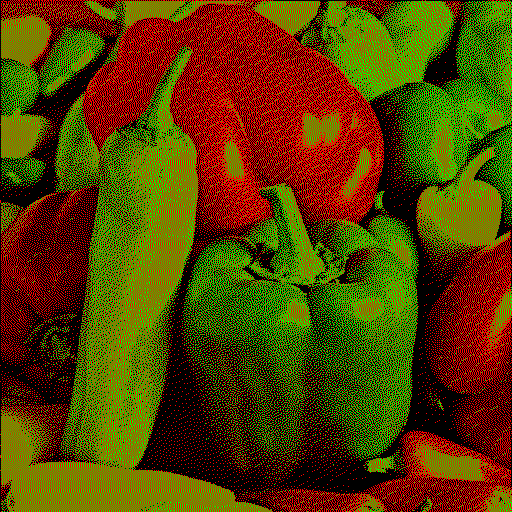
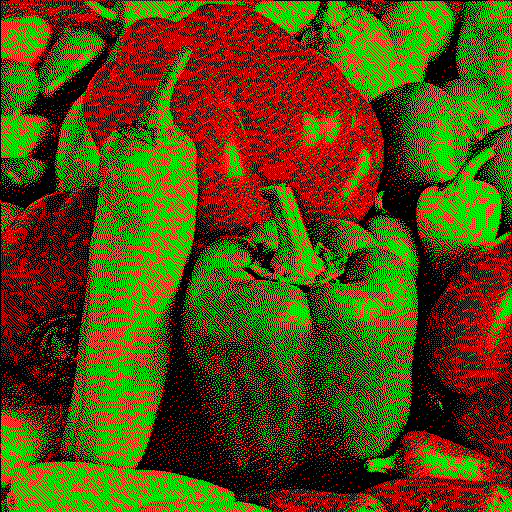
Weight each channel by human luminance when comparing to palette (#12)

diff --git a/dither.go b/dither.go
@@ -132,8 +132,23 @@ func (d *Ditherer) closestColor(r, g, b uint16) int {
 	// Go through each color and find the closest one
 	color, best := 0, uint32(math.MaxUint32)
 	for i, c := range d.linearPalette {
+
 		// Euclidean distance, but the square root part is removed
-		dist := sqDiff(r, c[0]) + sqDiff(g, c[1]) + sqDiff(b, c[2])
+		// Weight by luminance value to approximate radiant power / luminance
+		// as humans perceive it.
+		//
+		// These values were taken from Wikipedia:
+		// https://en.wikipedia.org/wiki/Grayscale#Colorimetric_(perceptual_luminance-preserving)_conversion_to_grayscale
+		// 0.2126, 0.7152, 0.0722
+		// The are changed to fractions here to keep everything in integer math:
+		//     1063/5000, 447/625, 361/5000
+		// Unfortunately this requires promoting them to uint64 to prevent overflow
+
+		dist := uint32(
+			1063*uint64(sqDiff(r, c[0]))/5000 +
+				447*uint64(sqDiff(g, c[1]))/625 +
+				361*uint64(sqDiff(b, c[2]))/5000,
+		)
 
 		if dist < best {
 			if dist == 0 {

diff --git a/dither_test.go b/dither_test.go
@@ -5,6 +5,7 @@ import (
 	"image/color"
 	_ "image/jpeg"
 	"image/png"
+	"math/rand"
 	"os"
 	"reflect"
 	"testing"
@@ -92,6 +93,7 @@ func createDitheredImage(input, output string, d *Ditherer, t *testing.T) {
 }
 
 func TestRandomNoiseGrayscale(t *testing.T) {
+	rand.Seed(1)
 	d := NewDitherer(blackWhite)
 	d.Mapper = RandomNoiseGrayscale(-0.5, 0.5)
 	d.SingleThreaded = true
@@ -99,6 +101,7 @@ func TestRandomNoiseGrayscale(t *testing.T) {
 }
 
 func TestRandomNoiseRGB(t *testing.T) {
+	rand.Seed(1)
 	noise := RandomNoiseRGB(-0.5, 0.5, -0.5, 0.5, -0.5, 0.5)
 
 	d := NewDitherer(redGreenBlack)

diff --git a/README.md b/README.md
@@ -5,6 +5,8 @@
 
 dither is a library for dithering images in Go. It has many dithering algorithms built-in, and allows you to specify your own. Correctness is a top priority, as well as performance. It is designed to work well on its own, but also implements interfaces from the standard library, so that it can be integrated easily in a wide variety of situtations.
 
+This library is uniquely correct from a math and quality perspective. It linearizes the image, and color comparisons are done with human luminance perception in mind (channel weighting). Few-to-no other libraries do this.
+
 It supports images that make use of the alpha channel, AKA transparency.
 
 *Make sure to set your browser zoom to 100% to view these images properly*
@@ -155,8 +157,6 @@ I might end up writing another library that implements some common algorithms fo
 Some general tips for working with the library.
 
 Any returned `PixelMappers` should be cached and re-used. There is no point in regenerating them, it just wastes resources.
-
-If the palette is grayscale, the input image should be converted to grayscale first to get accurate results.
 
 All the `[][]uint` matrices are supposed to be applied with `PixelMapperFromMatrix`.
 

diff --git a/CHANGELOG.md b/CHANGELOG.md
@@ -5,8 +5,13 @@ The format is based on [Keep a Changelog](https://keepachangelog.com/en/1.0.0/),
 and this project adheres to [Semantic Versioning](https://semver.org/spec/v2.0.0.html).
 
 ## [Unreleased]
+### Changed
+- When comparing colors, each channel is weighted according to human luminance perception (didder#14)
+
 ### Fixed
 - Corrected Burkes matrix (#10)
+- Palette order no longer affects output (#9)
+- Grayscale palettes don't require the input image be converted to grayscale beforehand (#7)
 
 ## [2.2.0] - 2021-05-09
 ### Added
